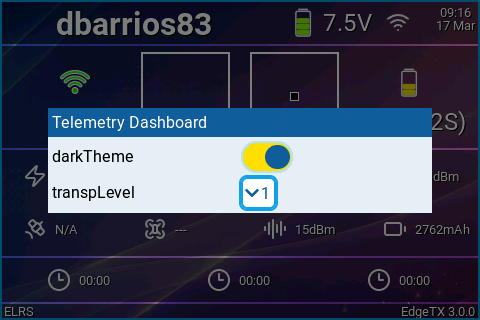
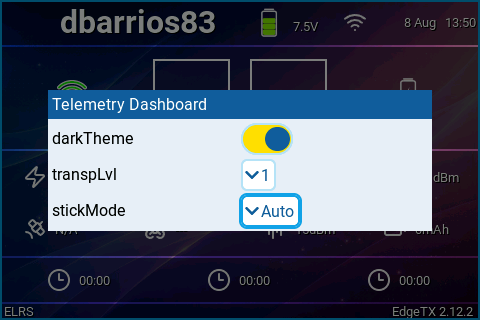
Document the stickMode option and its -1 first-load display defect
README.md now lists the stickMode widget option (Auto/1-4) alongside
darkTheme/transpLvl, and explains the -1 EdgeTX shows for it on
existing widget zones the first time this option loads: traced into
EdgeTX's own firmware (WidgetFactory::create()/
WidgetPersistentData::setDefault() in radio/src/gui/colorlcd/mainview/
widget.cpp) -- appending a new option to an already-placed widget
instance leaves the slot zero-initialized, and setDefault()'s
type-changed check spuriously passes because the placeholder type
already matches a Combo option's resolved type, so the real default is
never written. It's a migration/display defect only: the widget's own
resolver already treats any unrecognized value as Auto, so behavior is
unaffected, and Lua has no API to rewrite its own persisted option to
self-repair. Also records why a plain numeric 0-4 option (which would
avoid the defect) isn't worth it over the self-documenting dropdown.

Same explanation added as a code comment at the exact line in
main.lua's resolveStickModeOption() that handles it, so it isn't
mistaken for a bug in this project later.

Also updates docs/img/widget_setting.png to the current three-option
settings screen.

diff --git a/README.md b/README.md
@@ -66,6 +66,37 @@ The widget currently provides these options:
 	 Controls section overlay transparency. Four levels, selected as "1"-"4"
 	 (Choice) or 0-3 (plain numeric) depending on what your EdgeTX build
 	 exposes -- both resolve to the same four transparency levels.
+3. `stickMode` (`COMBO`/`Choice` where supported, plain numeric otherwise):
+	 Tells the stick monitor which physical stick your radio's Stick Mode
+	 (Radio Setup > Stick Mode) assigns to each channel, so its two boxes
+	 move with the sticks that actually match your hardware. `Auto` (the
+	 default) reads it directly from the radio (`getStickMode()`, present
+	 since EdgeTX 2.12) -- most users never need to touch this. Only set
+	 it explicitly (`1`-`4`) to override that reading.
+
+	 **`-1` display defect on existing zones:** if this widget zone was
+	 already configured before this option existed, EdgeTX's own
+	 settings screen may show `-1` here instead of `Auto` the first time
+	 you open it. This is an EdgeTX migration/display defect, not a
+	 widget bug: appending a new option to an already-placed widget
+	 instance leaves that slot's stored value uninitialized, and
+	 EdgeTX's own default-filling logic never notices, because the
+	 uninitialized slot's placeholder type already matches the option's
+	 real type. The widget already treats this (and any other value it
+	 doesn't recognize) as `Auto` internally, so behavior is correct
+	 regardless of the label -- only the display is wrong. Lua has no
+	 way to rewrite its own persisted option value, so it can't self-
+	 repair; opening the dropdown and selecting any value once (even
+	 re-selecting `Auto`) writes a real value and permanently corrects
+	 the display. New widget placements are unaffected and show `Auto`
+	 correctly from the start.
+
+	 A plain numeric `0`-`4` option (`0` = Auto) would avoid this
+	 display defect entirely, since an uninitialized `0` and an explicit
+	 `0` would then be indistinguishable -- but that trades away the
+	 self-documenting `Auto`/`1`-`4` dropdown for bare numbers, which is
+	 worse for users in the common case just to paper over a cosmetic,
+	 self-correcting, one-time-per-zone display glitch. Not worth it.
 
 ![Widget Settings](docs/img/widget_setting.png)
 
